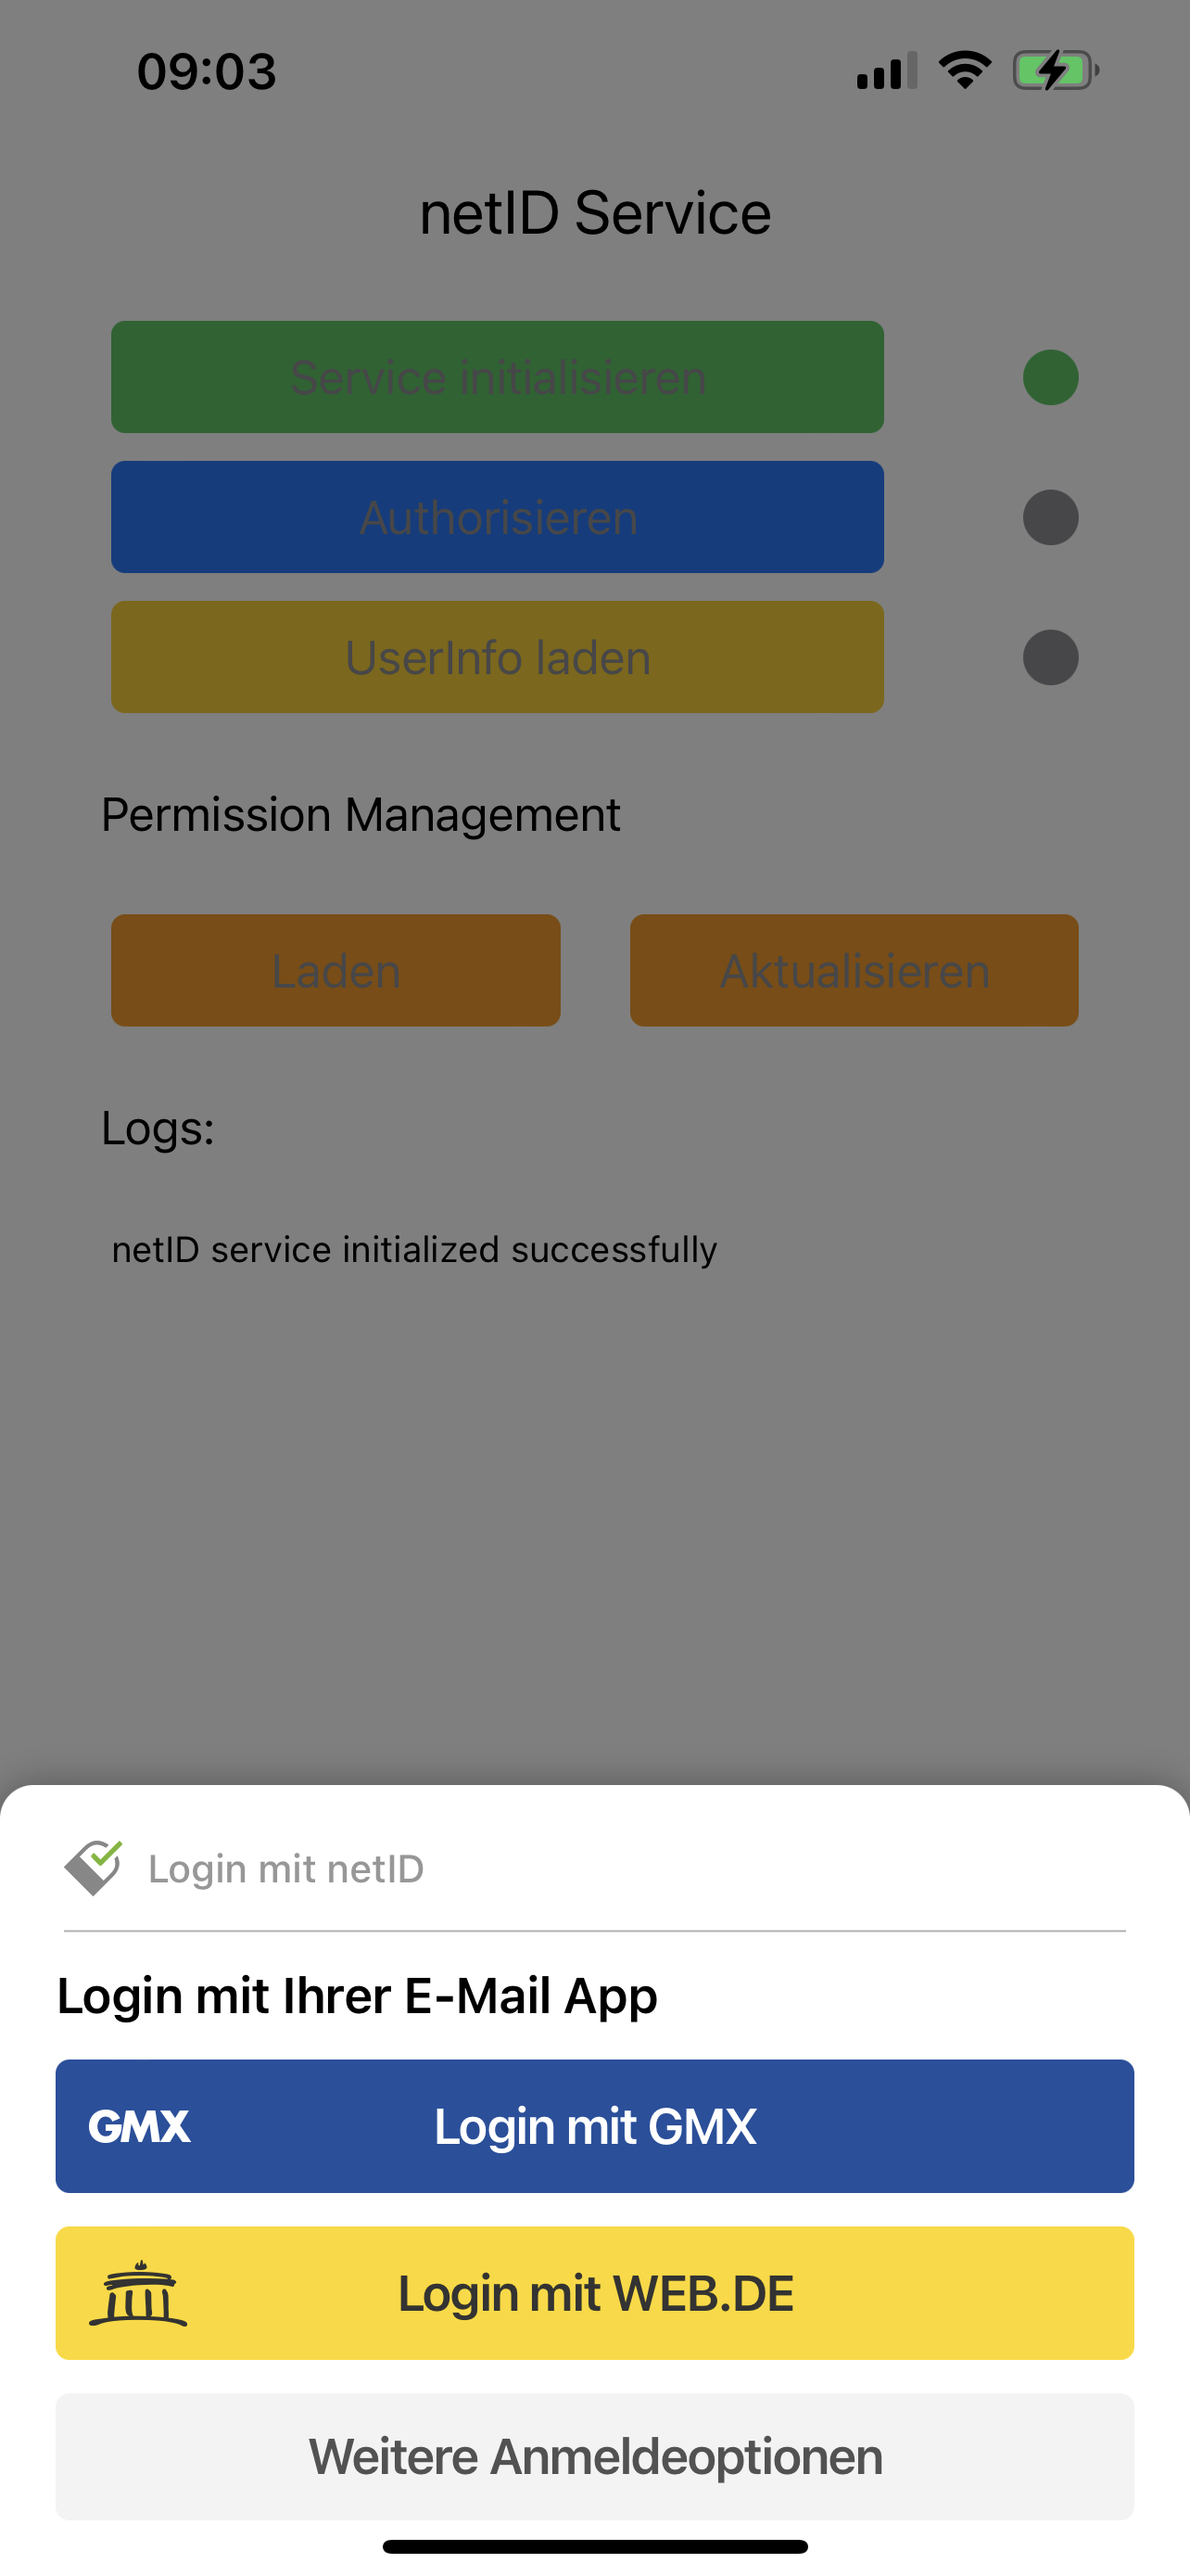
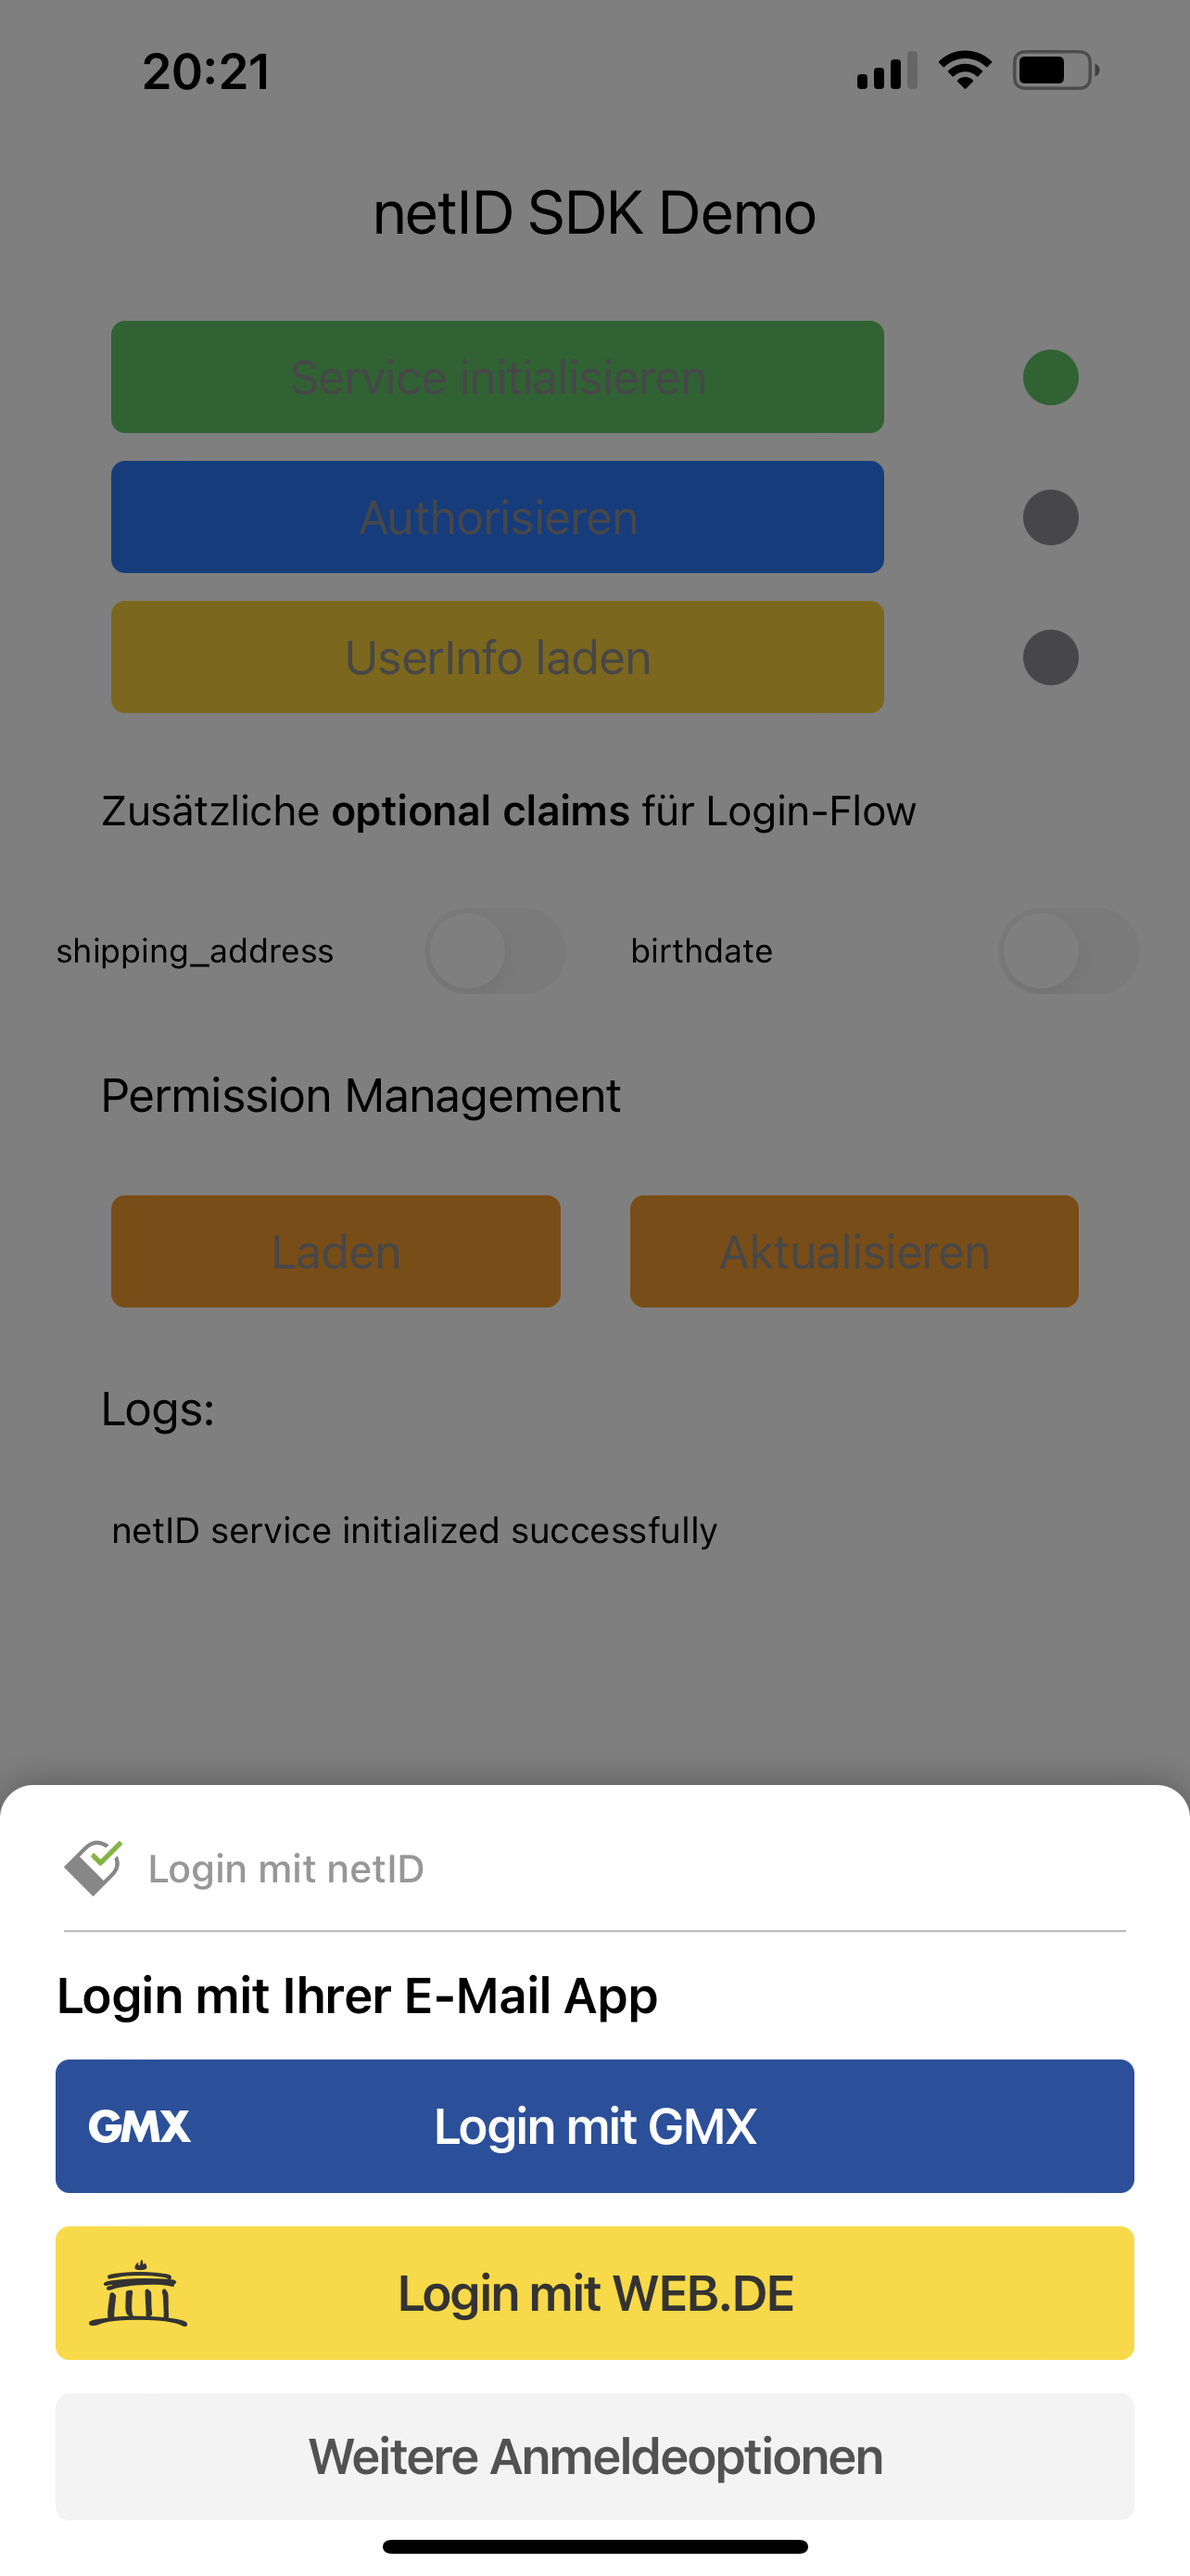
added workflow for extra claims

diff --git a/NetIdMobileSdk/NetIdMobileSdk-App/ContentView.swift b/NetIdMobileSdk/NetIdMobileSdk-App/ContentView.swift
@@ -23,6 +23,8 @@ struct ContentView: View {
 
     @EnvironmentObject var serviceViewModel: ServiceViewModel
     @State private var showingAlert = false
+    @State private var extraClaimShippingAddress = false
+    @State private var extraClaimBirthdate = false
 
     var body: some View {
         ZStack {
@@ -33,7 +35,9 @@ struct ContentView: View {
 
                 HStack(alignment: .center, spacing: 50) {
                     Button {
-                        serviceViewModel.initializeNetIdService()
+                        serviceViewModel.initializeNetIdService(
+                            extraClaimShippingAddress: extraClaimShippingAddress,
+                            extraClaimBirthdate: extraClaimBirthdate)
                     } label: {
                         Text("initialize_button_title")
                                 .frame(maxWidth: .infinity)
@@ -101,6 +105,23 @@ struct ContentView: View {
                             .frame(width: 20, height: 20, alignment: .center)
                 }
                         .padding(.horizontal, 20)
+
+                VStack(alignment: .center, spacing: 10) {
+                    Text("net_id_service_extra_claims")
+                        .padding()
+                        .font(Font.system(size: 15))
+                        .frame(maxWidth: .infinity, alignment: .topLeading)
+                    
+                    HStack(alignment: .center, spacing: 25) {
+                        Toggle(isOn: $extraClaimShippingAddress) {
+                            Text("shipping_address").font(Font.system(size: 12))
+                        }.disabled(!serviceViewModel.initializationEnabled)
+                        
+                        Toggle(isOn: $extraClaimBirthdate) {
+                            Text("birthdate").font(Font.system(size: 12))
+                        }.disabled(!serviceViewModel.initializationEnabled)
+                    }
+                }
 
                 Text("permission_management_title")
                         .padding()

diff --git a/NetIdMobileSdk/NetIdMobileSdk-App/ServiceViewModel.swift b/NetIdMobileSdk/NetIdMobileSdk-App/ServiceViewModel.swift
@@ -34,7 +34,7 @@ class ServiceViewModel: NSObject, ObservableObject {
     @Published var logText = ""
     @Published var authFlow: NetIdAuthFlow = .Permission
 
-    func initializeNetIdService() {
+    func initializeNetIdService(extraClaimShippingAddress: Bool, extraClaimBirthdate: Bool) {
         initializationEnabled = false
         NetIdService.sharedInstance.registerListener(self)
         
@@ -43,7 +43,10 @@ class ServiceViewModel: NSObject, ObservableObject {
         // Therefor, PermissionLayerConfig and LoginLayerConfig are used. If they are not set, default vaules will apply instead.
         let loginLayerConfig = LoginLayerConfig()
         let permissionLayerConfig = PermissionLayerConfig()
-        let claims = "{\"userinfo\":{\"email\": {\"essential\": true}, \"email_verified\": {\"essential\": true}}}"
+        let snippetShippingAddress = (extraClaimShippingAddress) ? ", \"shipping_address\": null" : ""
+        let snippetBirthdate = (extraClaimBirthdate) ? ", \"birthdate\": null" : ""
+        let claims = "{\"userinfo\":{\"email\": {\"essential\": true}, \"email_verified\": {\"essential\": true}\(snippetShippingAddress)\(snippetBirthdate)}}"
+                
         let config = NetIdConfig(
             clientId: "26e016e7-54c7-4ffd-bee0-782a9a4f87d6",
             redirectUri: "https://netid-sdk-web.letsdev.de/redirect",

diff --git a/NetIdMobileSdk/NetIdMobileSdk/api/NetIdConfig.swift b/NetIdMobileSdk/NetIdMobileSdk/api/NetIdConfig.swift
@@ -17,7 +17,7 @@ import Foundation
 public struct LoginLayerConfig {
     /// Sets the text of the headline (beneath the logo). Only visible, if at least one id app is installed.
     public var headlineText: String?
-    /// Sets the text of the buttons displayed, if id apps are installed. The name of the app will be displayed as well, if the string is a format sting containing  "%s".
+    /// Sets the text of the buttons displayed, if id apps are installed. The name of the app will be displayed as well, if the string is a format string containing  "%s".
     public var loginText: String?
     /// Sets the text of the continue button at the bottom of the dialog. Only visible, if there is no id app installed.
     public var continueText: String?

diff --git a/NetIdMobileSdk/NetIdMobileSdk/api/NetIdServiceDelegate.swift b/NetIdMobileSdk/NetIdMobileSdk/api/NetIdServiceDelegate.swift
@@ -15,6 +15,7 @@
 import Foundation
 
 public protocol NetIdServiceDelegate: AnyObject {
+    
     func didFinishInitializationWithError(_ error: NetIdError?)
     
     func didFinishAuthentication(_ accessToken: String)

diff --git a/CHANGELOG-ExampleApp.md b/CHANGELOG-ExampleApp.md
@@ -18,6 +18,7 @@ and this project adheres to [Semantic Versioning](https://semver.org/spec/v2.0.0
 - Hard- and Soft-Login integration
 - Added default claims
 - Close bottom sheet by pressing anywhere inside the grayed out area
+- Added possibility to set additional optional claims in the app
 
 ### Fixed
 - Align sheet to bottom
